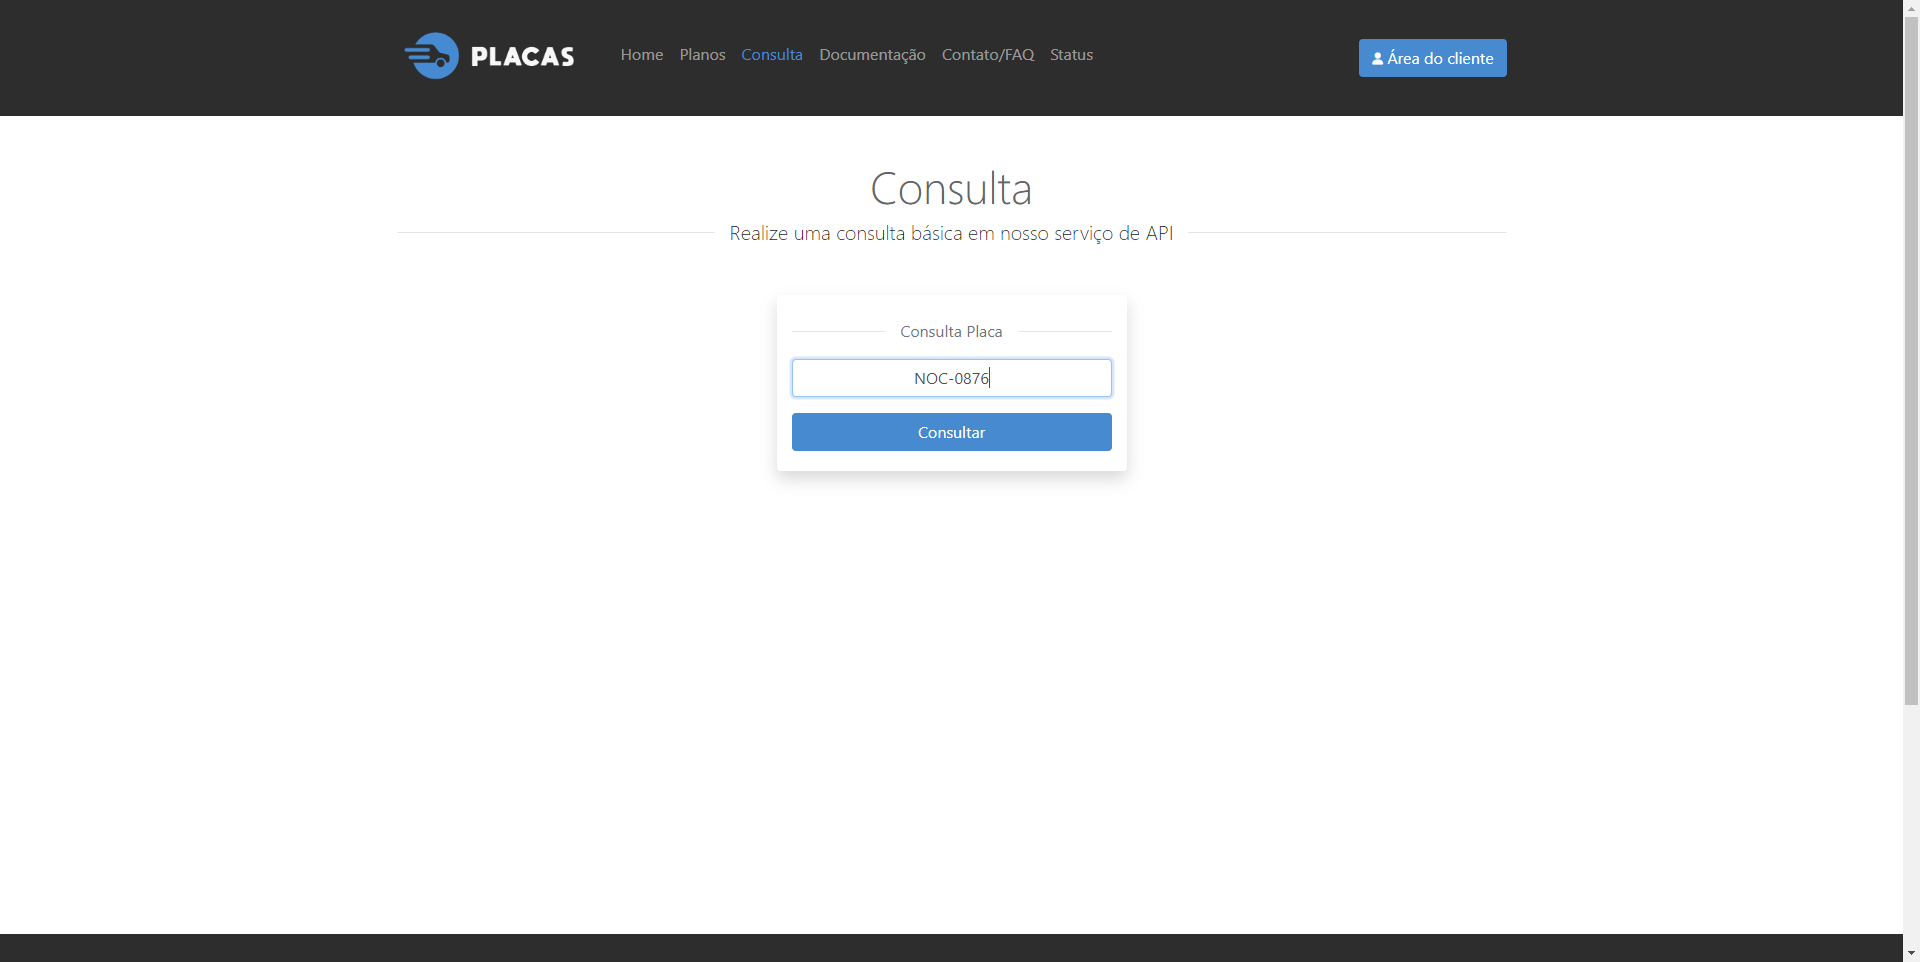
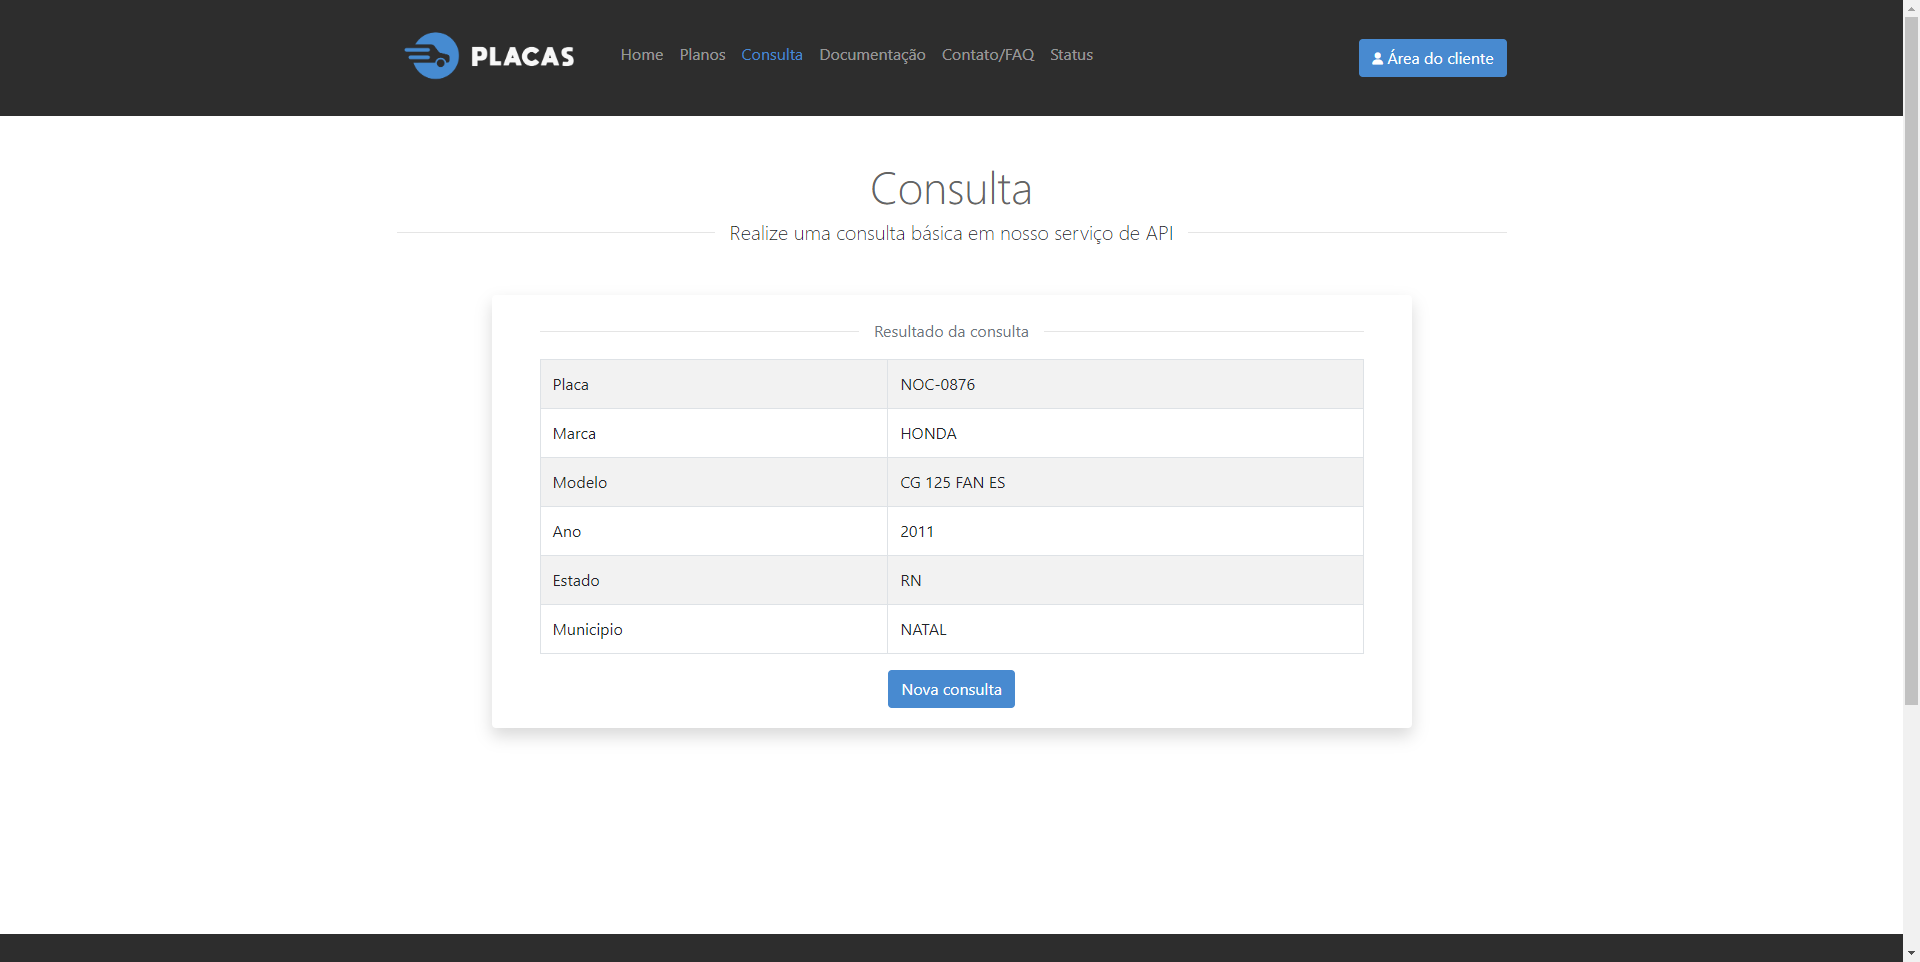
Colocando delay no print

diff --git a/main.py b/main.py
@@ -1,3 +1,4 @@
+import time
 from time import sleep
 
 from PIL import Image, ImageFilter
@@ -33,8 +34,9 @@ for letra in texto:
     elem.send_keys(letra)
 
 elem.send_keys(Keys.RETURN)
+sleep(5)
 driver.save_screenshot("resultado"+texto+".png")
-
+driver.close()
 
 
 
